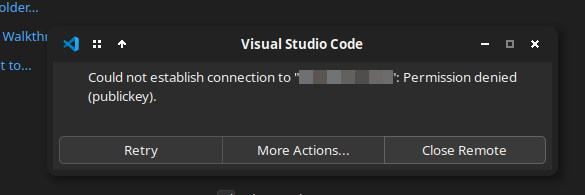
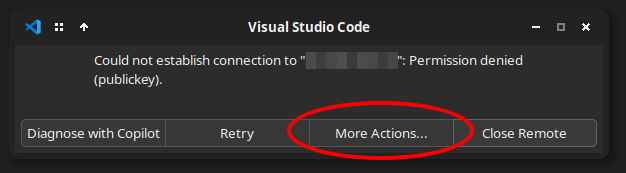
VM workstation tutorial updates

diff --git a/content/workstation/_index.md b/content/workstation/_index.md
@@ -285,7 +285,11 @@ When connceting to a remote machine, you may encounter an error with the message
 
 ![](./img/vscode-permission-denied.png)
 
-If this occurs, a few things could be causing the problem. Click 'More Actions...', and scroll up in the error output log at the bottom of the window. Scroll until you find the text `azureuser@________: Permission denied (publickey).` It'll look something like the red-circled text below:
+If this occurs, a few things could be causing the problem. Click 'More Actions...', then hold the `Control` key and click the `Output log...` link in the terminal at the bottom of the screen:
+
+![](./img/vscode-view-output.png)
+
+Scroll up in the error output log at the bottom of the window until you find the text `azureuser@________: Permission denied (publickey).` It'll look something like the red-circled text below:
 
 ![](./img/vscode-error-scroll.png)
 
